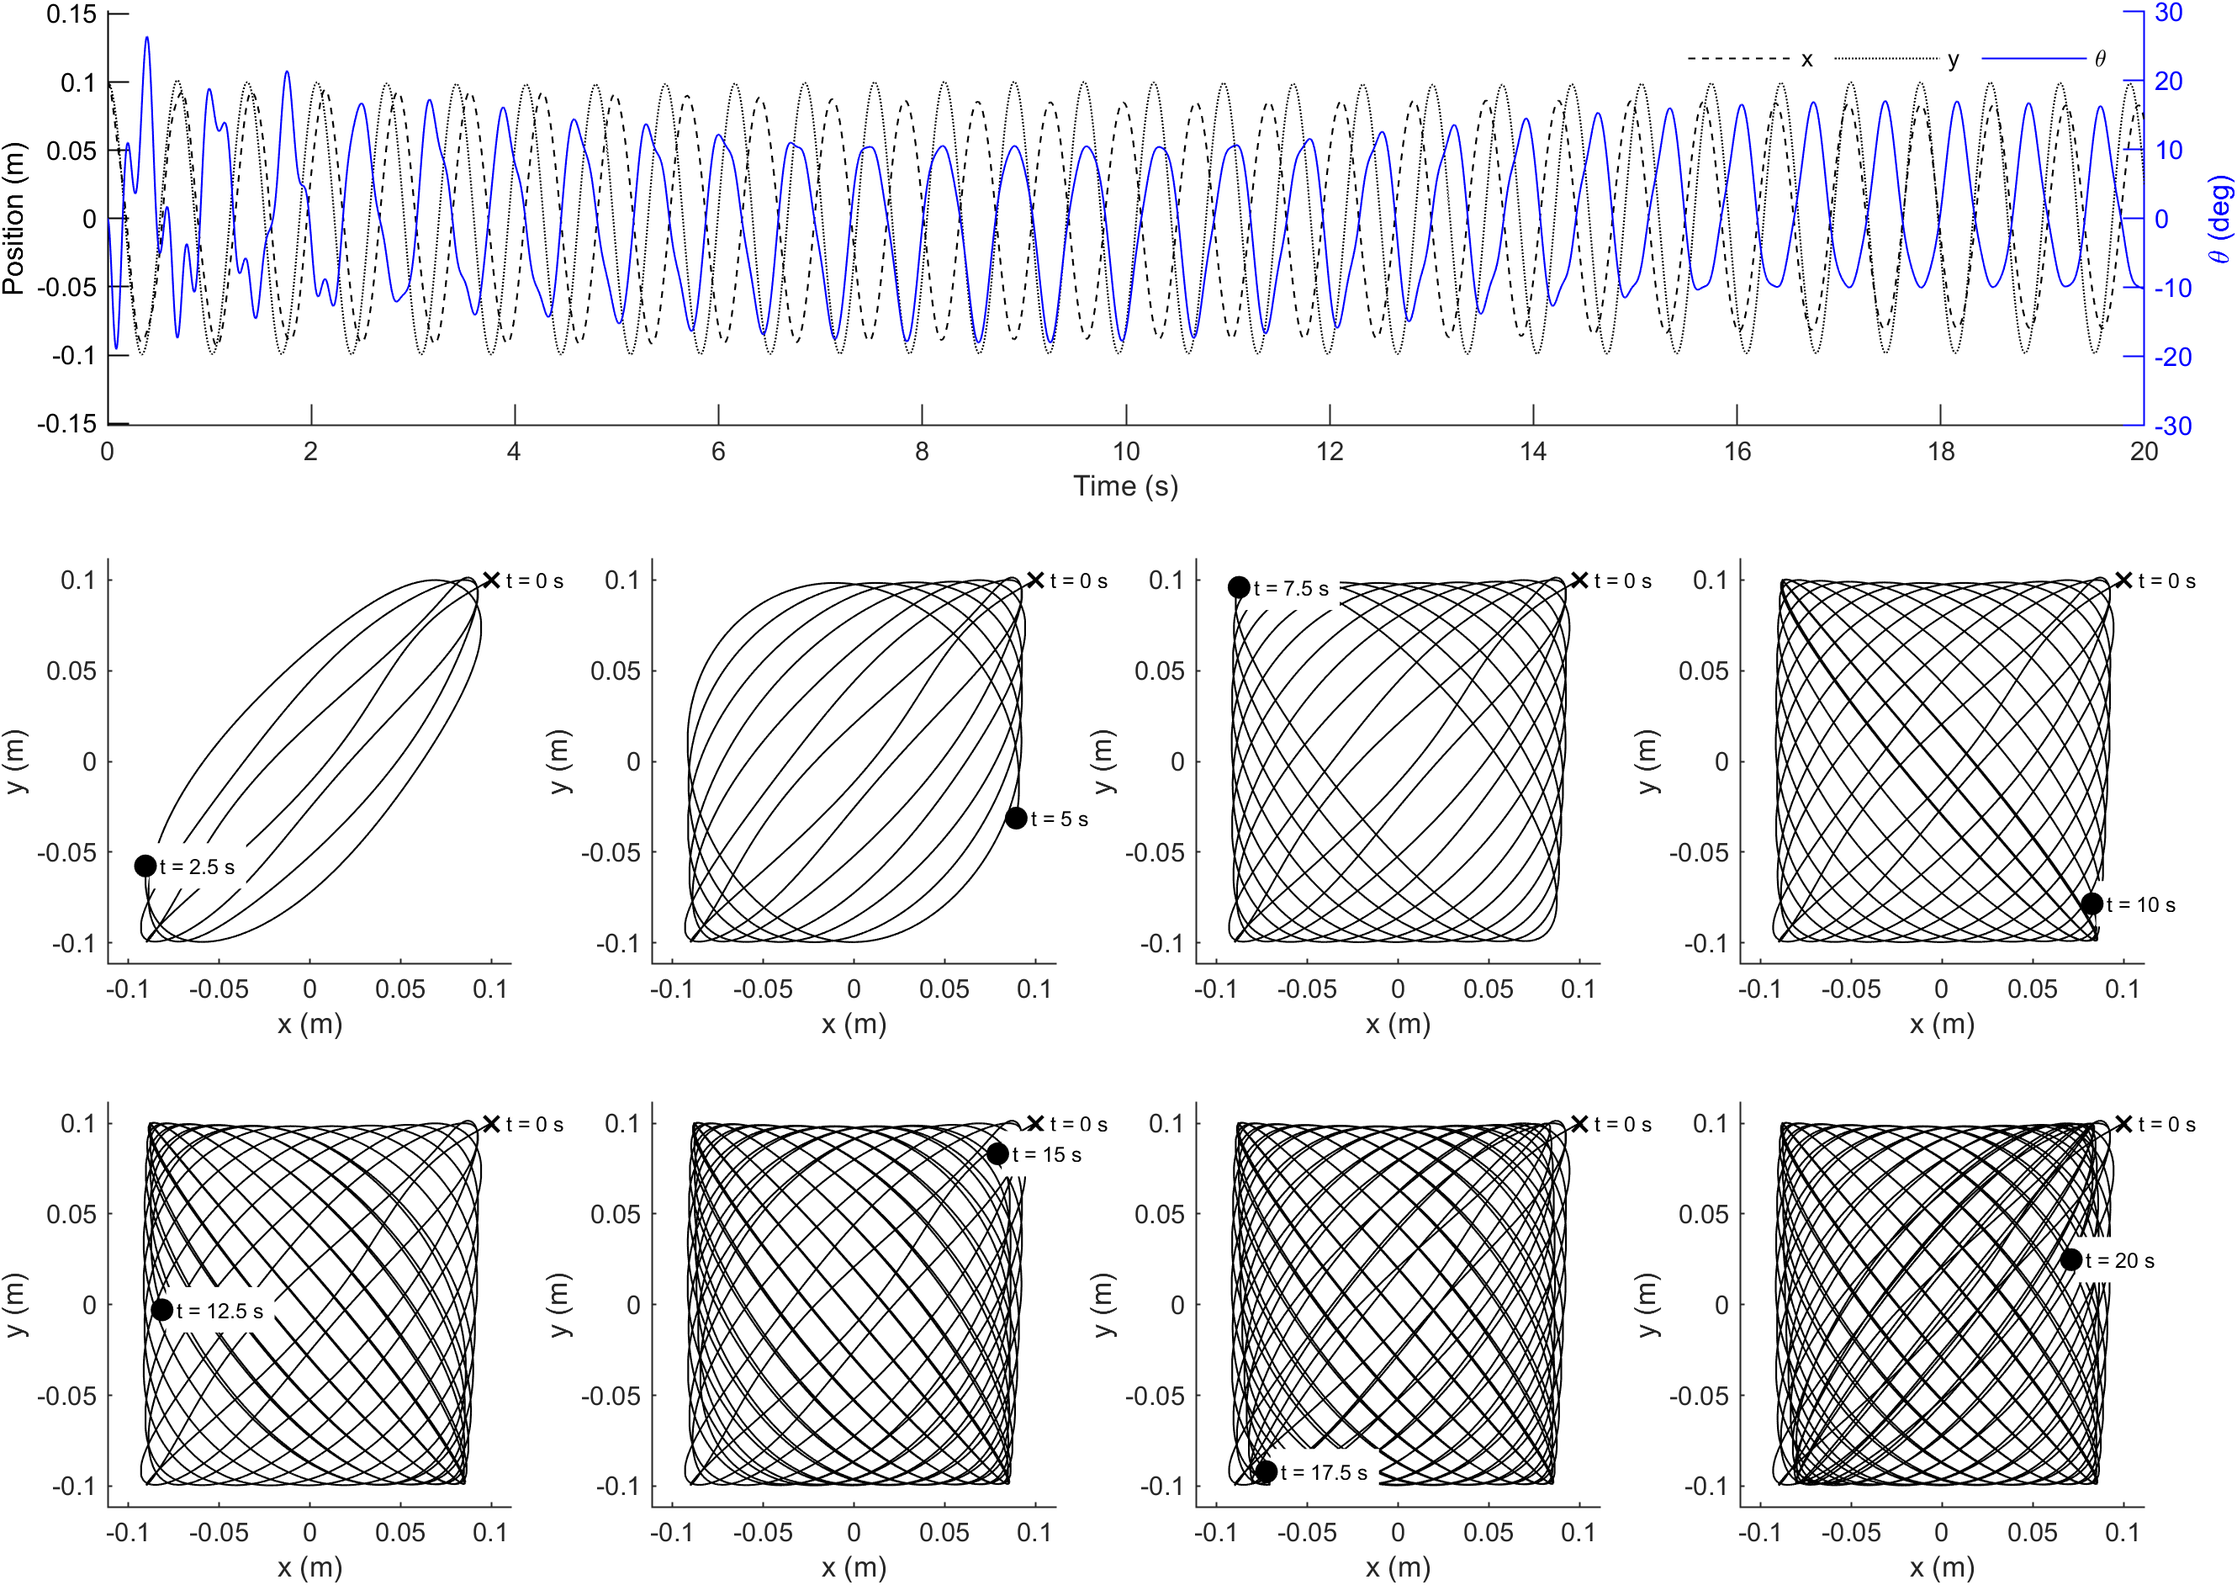
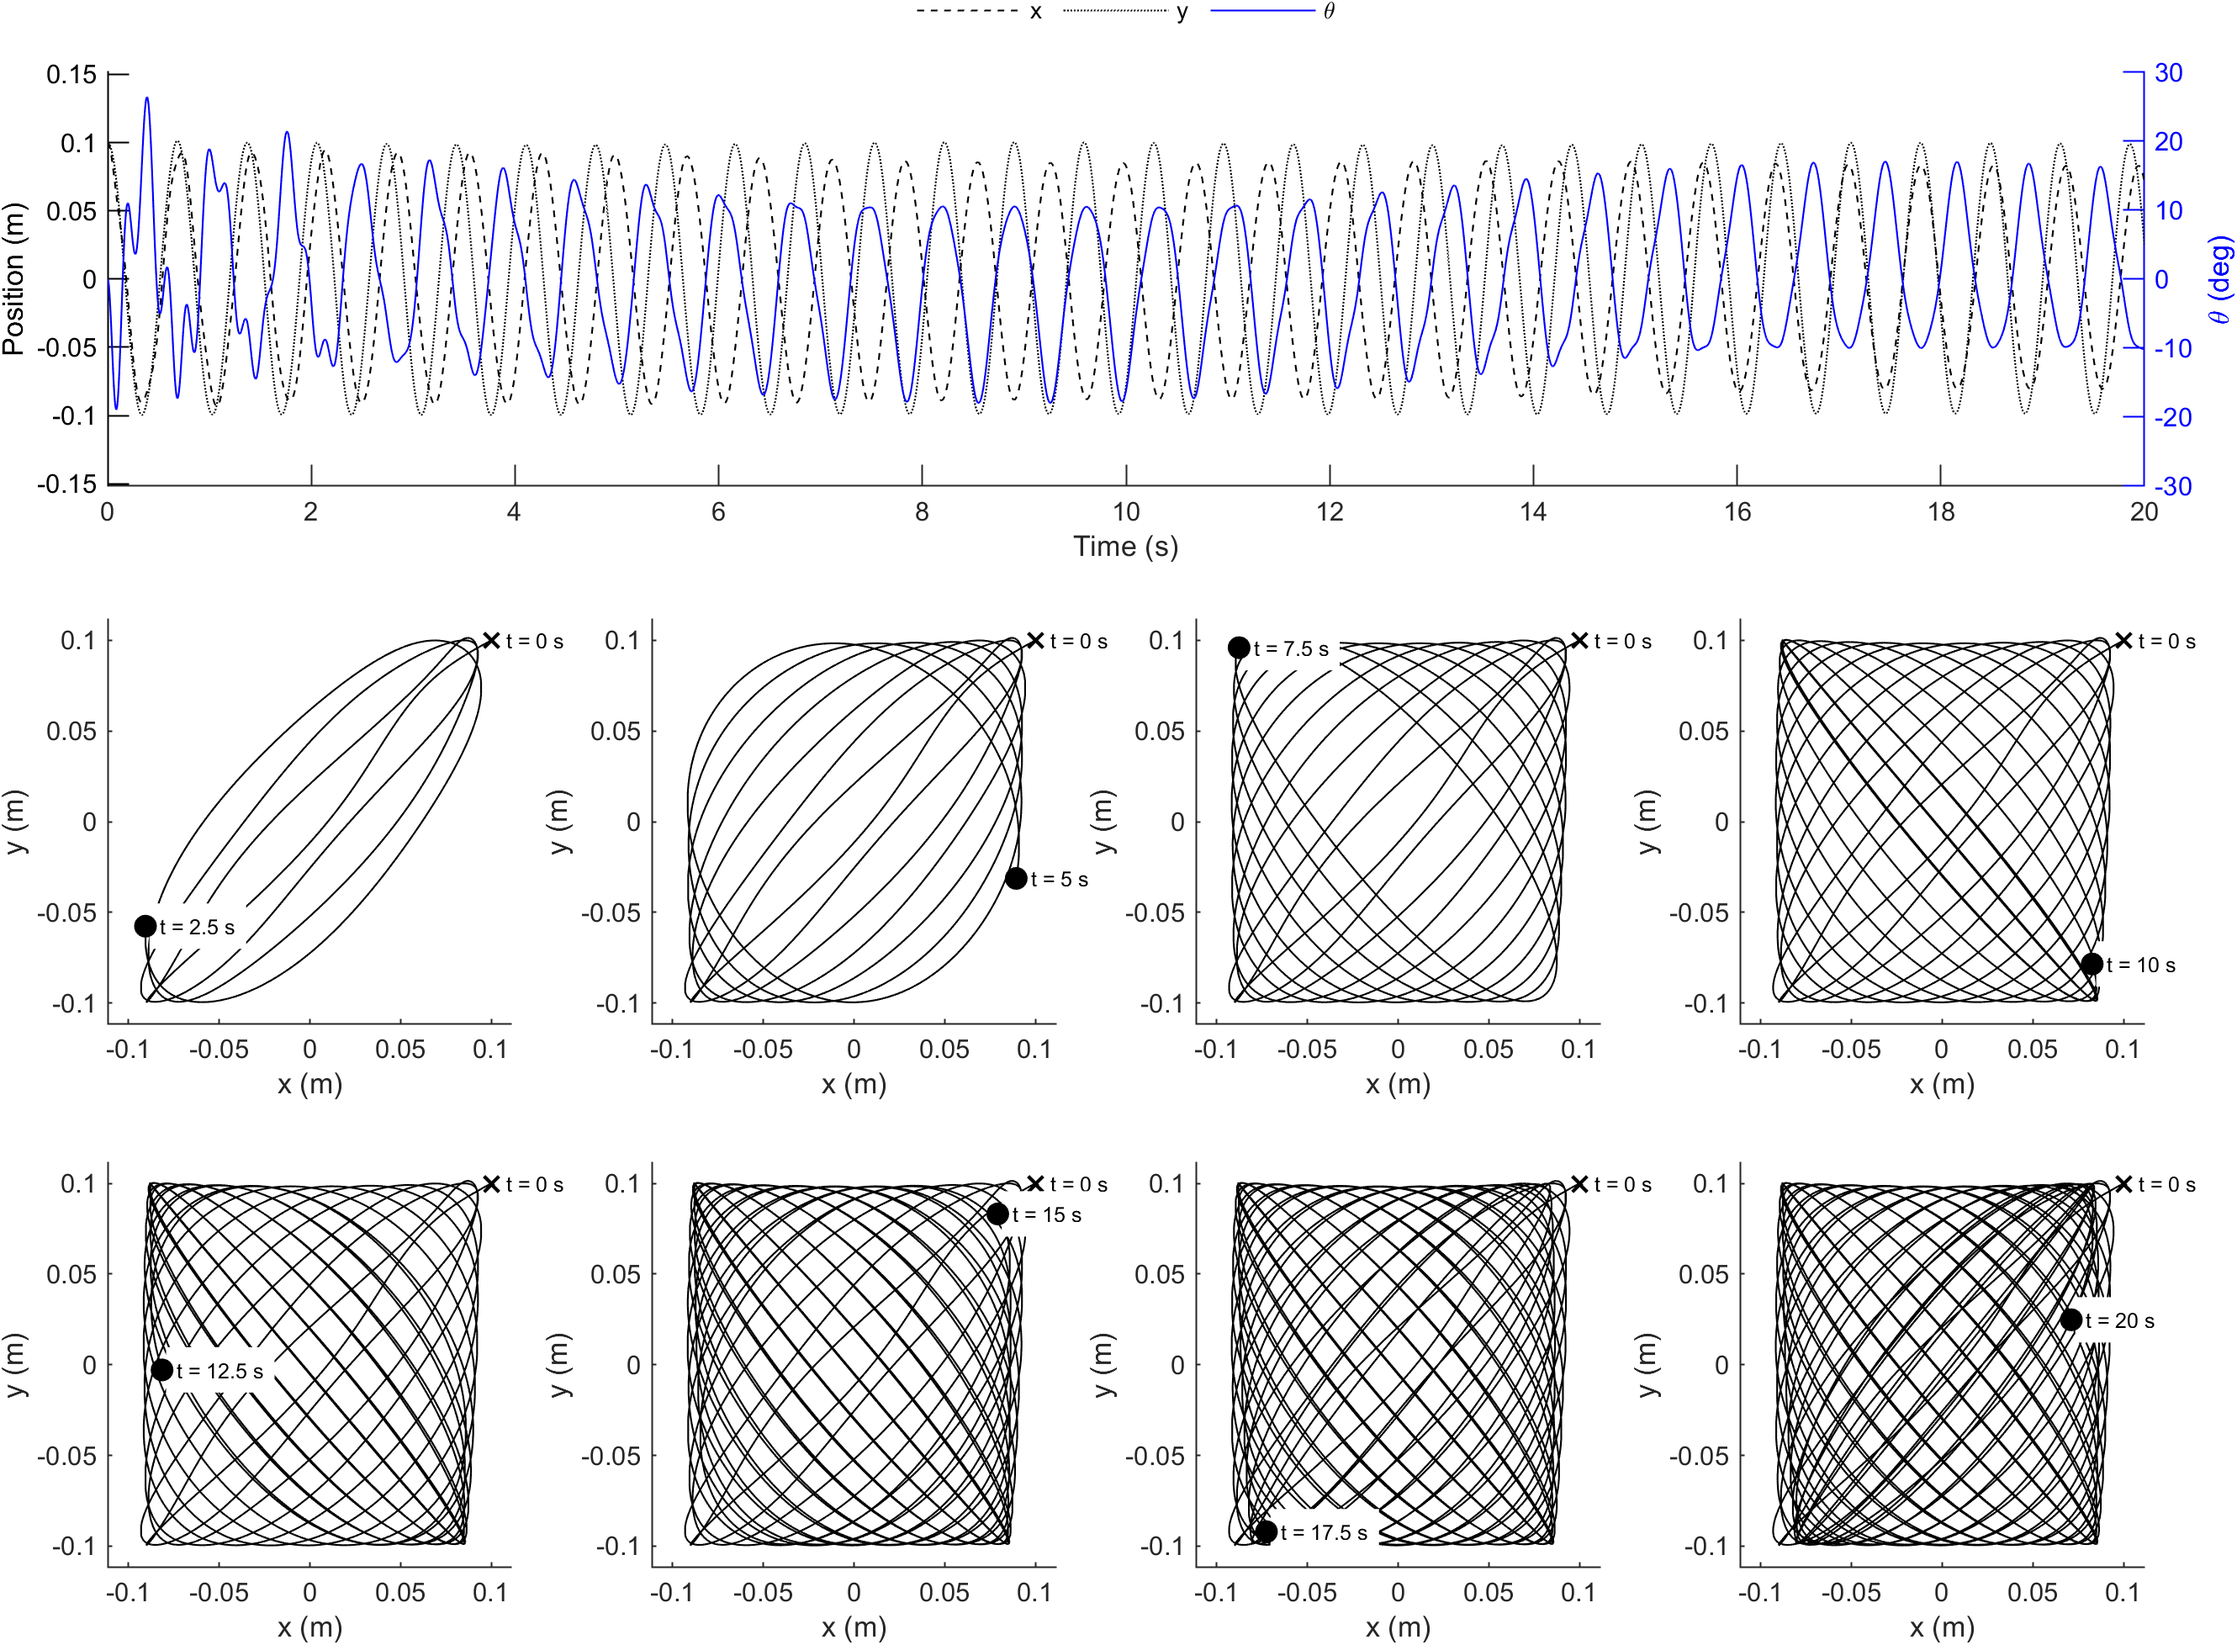
Move legend outside of plot.

diff --git a/src/3dof-model/simulate_3dof.m b/src/3dof-model/simulate_3dof.m
@@ -1,4 +1,4 @@
-SYSTEM = 'A';
+SYSTEM = 'C';
 
 DO_ANIMATE = 0;
 DO_WRITE_GIF = 0;
@@ -153,7 +153,7 @@ h2 = plot(t, theta / pi * 180, '-b');
 ylim(max(abs(h2.Parent.YLim)).*[-1 1])
 ylabel('\theta (deg)');
 xlabel('Time (s)');
-legend('x', 'y', '\theta', 'box', 'off', 'orientation','horizontal');
+legend('x', 'y', '\theta', 'box', 'off', 'orientation','horizontal', 'location', 'northoutside');
 ax = gca;
 ax.YAxis(1).Color = 'k';
 ax.YAxis(2).Color = 'b';
